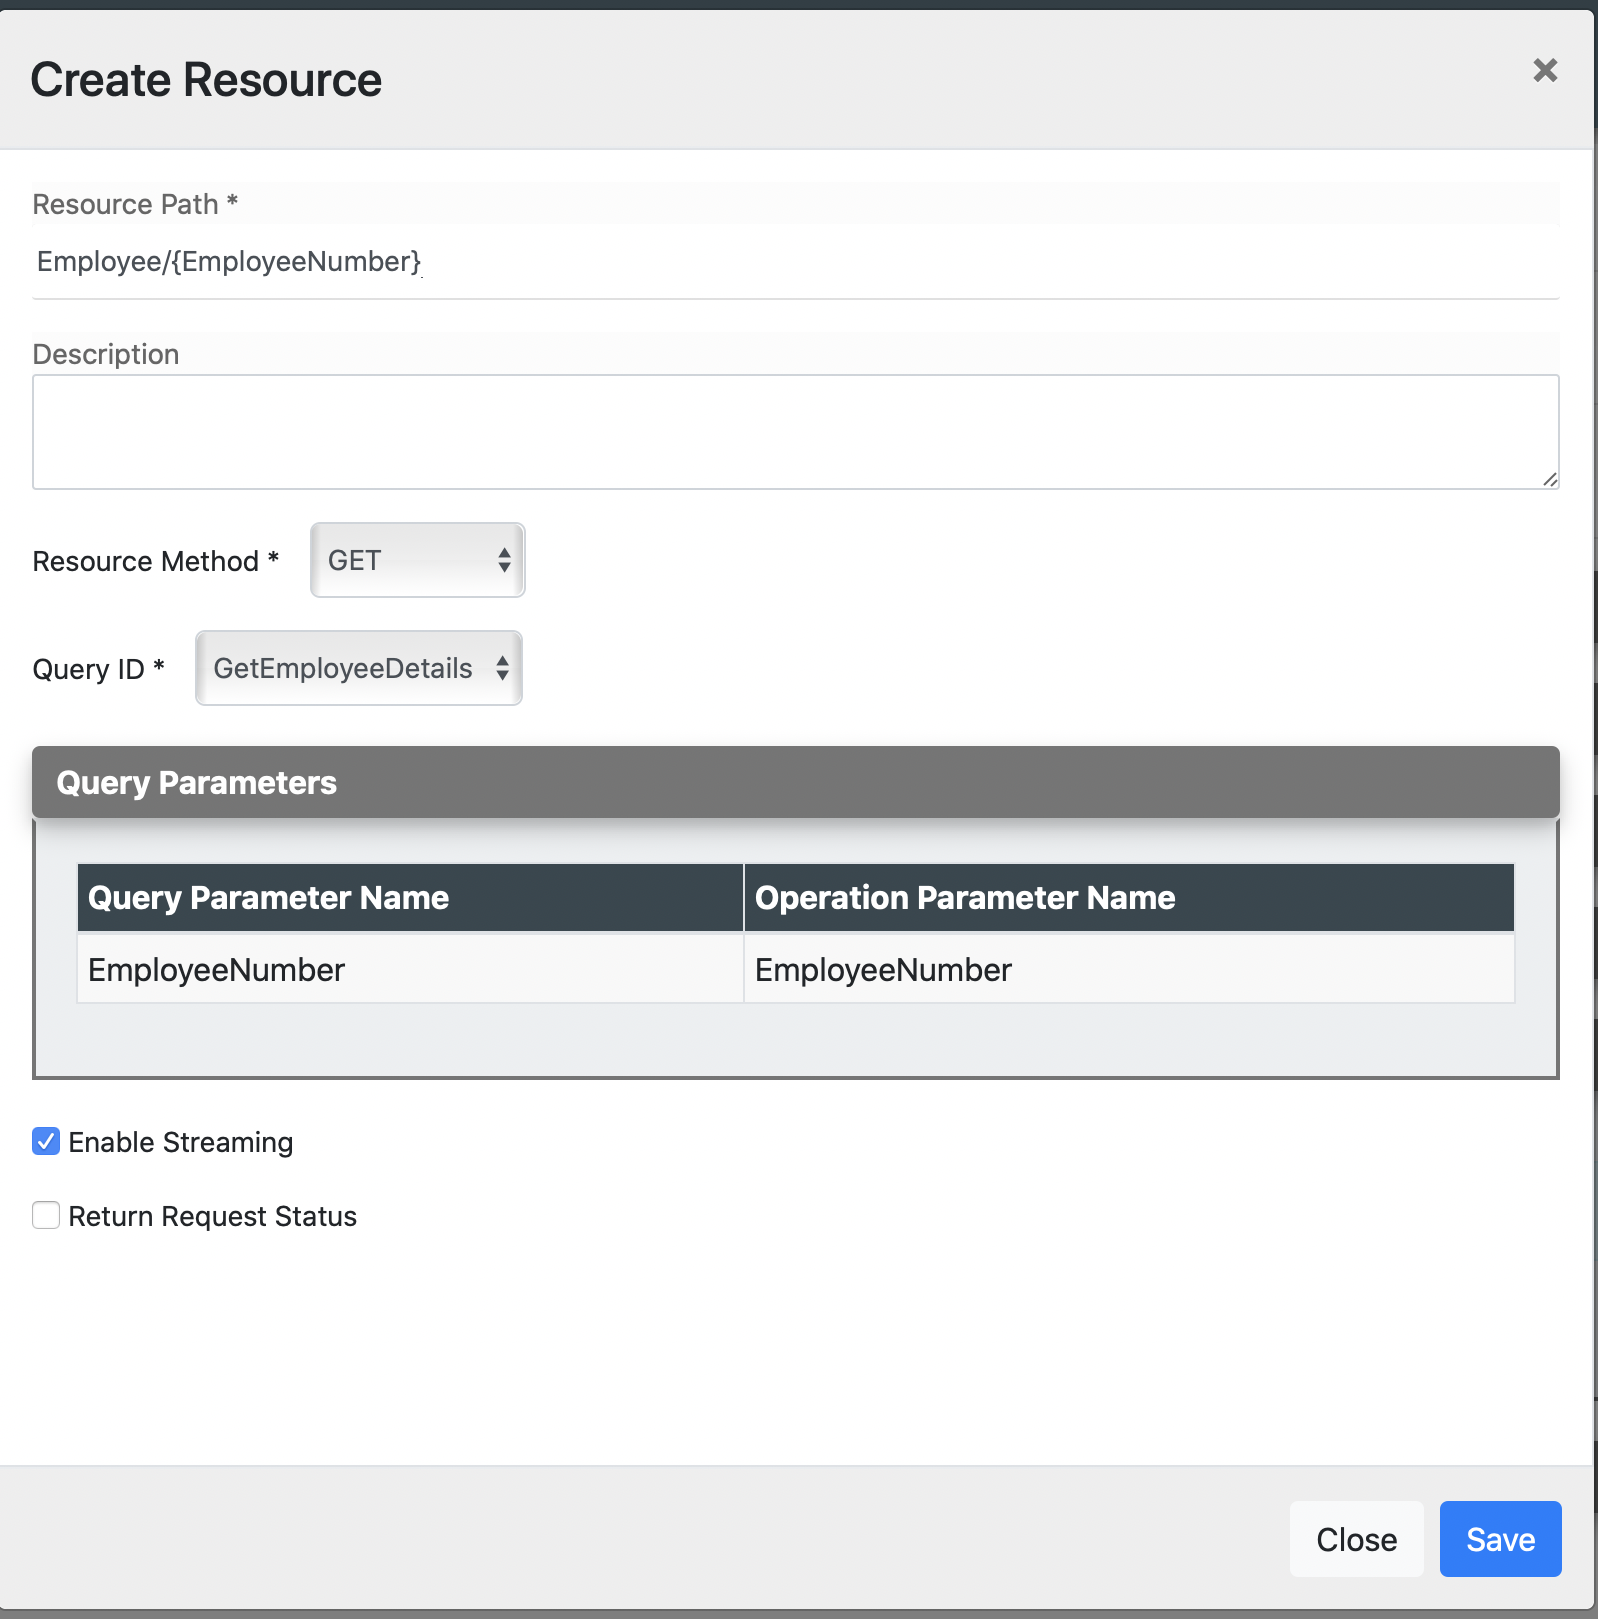
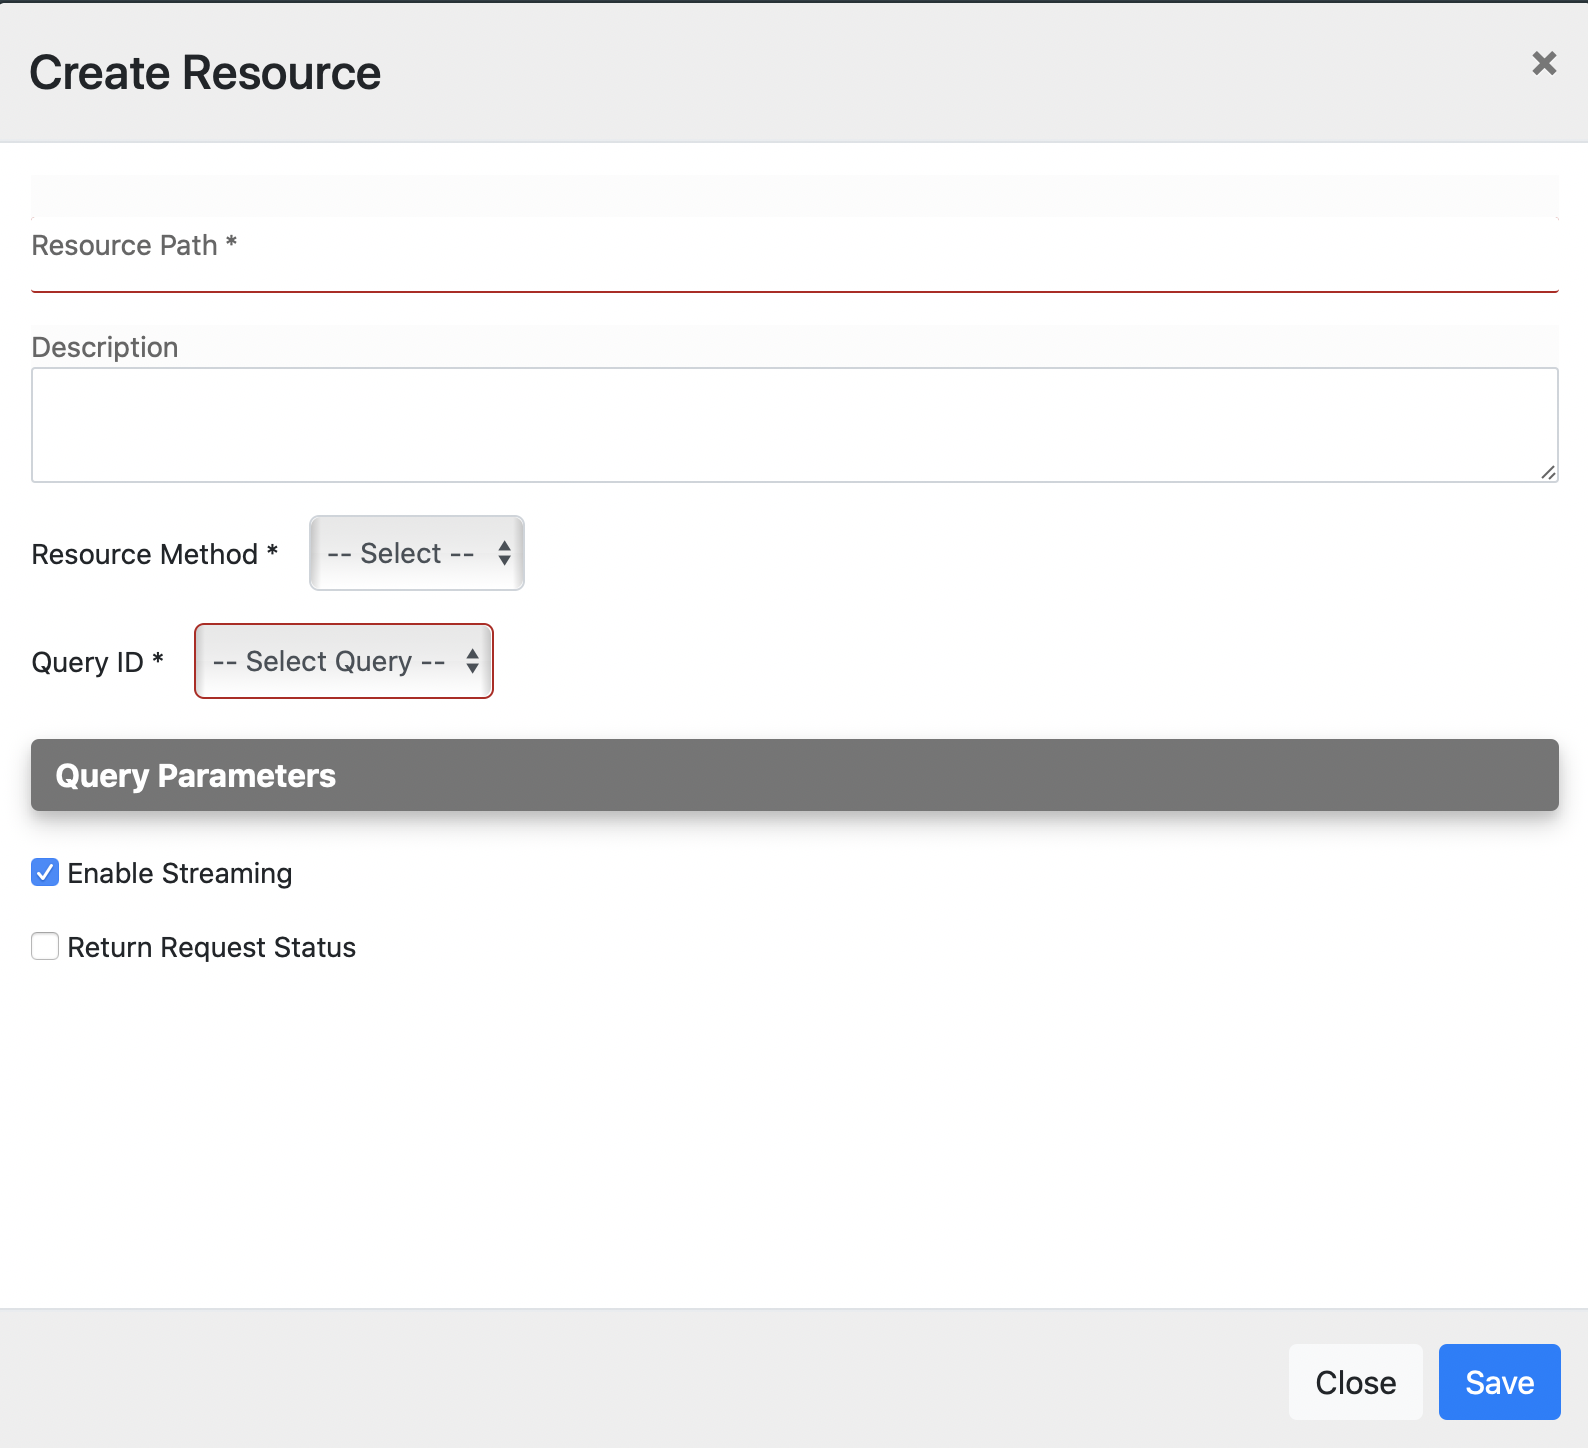
Adding required screenshots

diff --git a/en/micro-integrator/docs/use-cases/tutorials/sending-a-simple-message-to-a-datasource.md b/en/micro-integrator/docs/use-cases/tutorials/sending-a-simple-message-to-a-datasource.md
@@ -123,7 +123,7 @@ Let's write an SQL query to GET data from the MySQL datasource that you
 configured in the previous step:
 
 1.  Click **Queries** to expand the section. 
-    ![](../../assets/img/tutorials/data_services/data_source_expanded.png)
+    ![](../../assets/img/tutorials/data_services/query_expanded.png)
 2.  Click **Add New** to open the **Add Query** page.
     ![](../../assets/img/tutorials/data_services/add_query.png)
 3.  Enter the following query details:
@@ -135,7 +135,7 @@ configured in the previous step:
     | SQL Query  | select EmployeeNumber, FirstName, LastName, Email from Employees where EmployeeNumber=:EmployeeNumber|
 
 4.  Click **Input Mappings** to expand the section. 
-    ![](../../assets/img/tutorials/data_services/data_source_expanded.png)
+    ![](../../assets/img/tutorials/data_services/input_mapping_expanded.png)
 5.  Click **Add New** to open the **Add Input Mapping** page.
     ![](../../assets/img/tutorials/data_services/add_input_mappings.png)
 5.  Enter the following input mapping details:
@@ -149,7 +149,7 @@ configured in the previous step:
 5.  Save the input mapping.
     ![](../../assets/img/tutorials/data_services/input_mappings.png)
 6.  Click **Result (Output Mappings)** to expand the section.
-    ![](../../assets/img/tutorials/data_services/data_source_expanded.png)
+    ![](../../assets/img/tutorials/data_services/out_mapping_expanded.png)
 7.  Enter the following value to group the output mapping:
 
     <table>
@@ -211,7 +211,7 @@ configured in the previous step:
 Now, let's create a REST resource that can be used to invoke the query.
 
 1.  Click **Resources** to expand the section. 
-    ![](../../assets/img/tutorials/data_services/data_source_expanded.png)
+    ![](../../assets/img/tutorials/data_services/resource_expanded.png)
 2.  Click **Add New** to open the **Create Resource** page.
     ![](../../assets/img/tutorials/data_services/create_resource.png)
 3.  Enter the following resource details.
